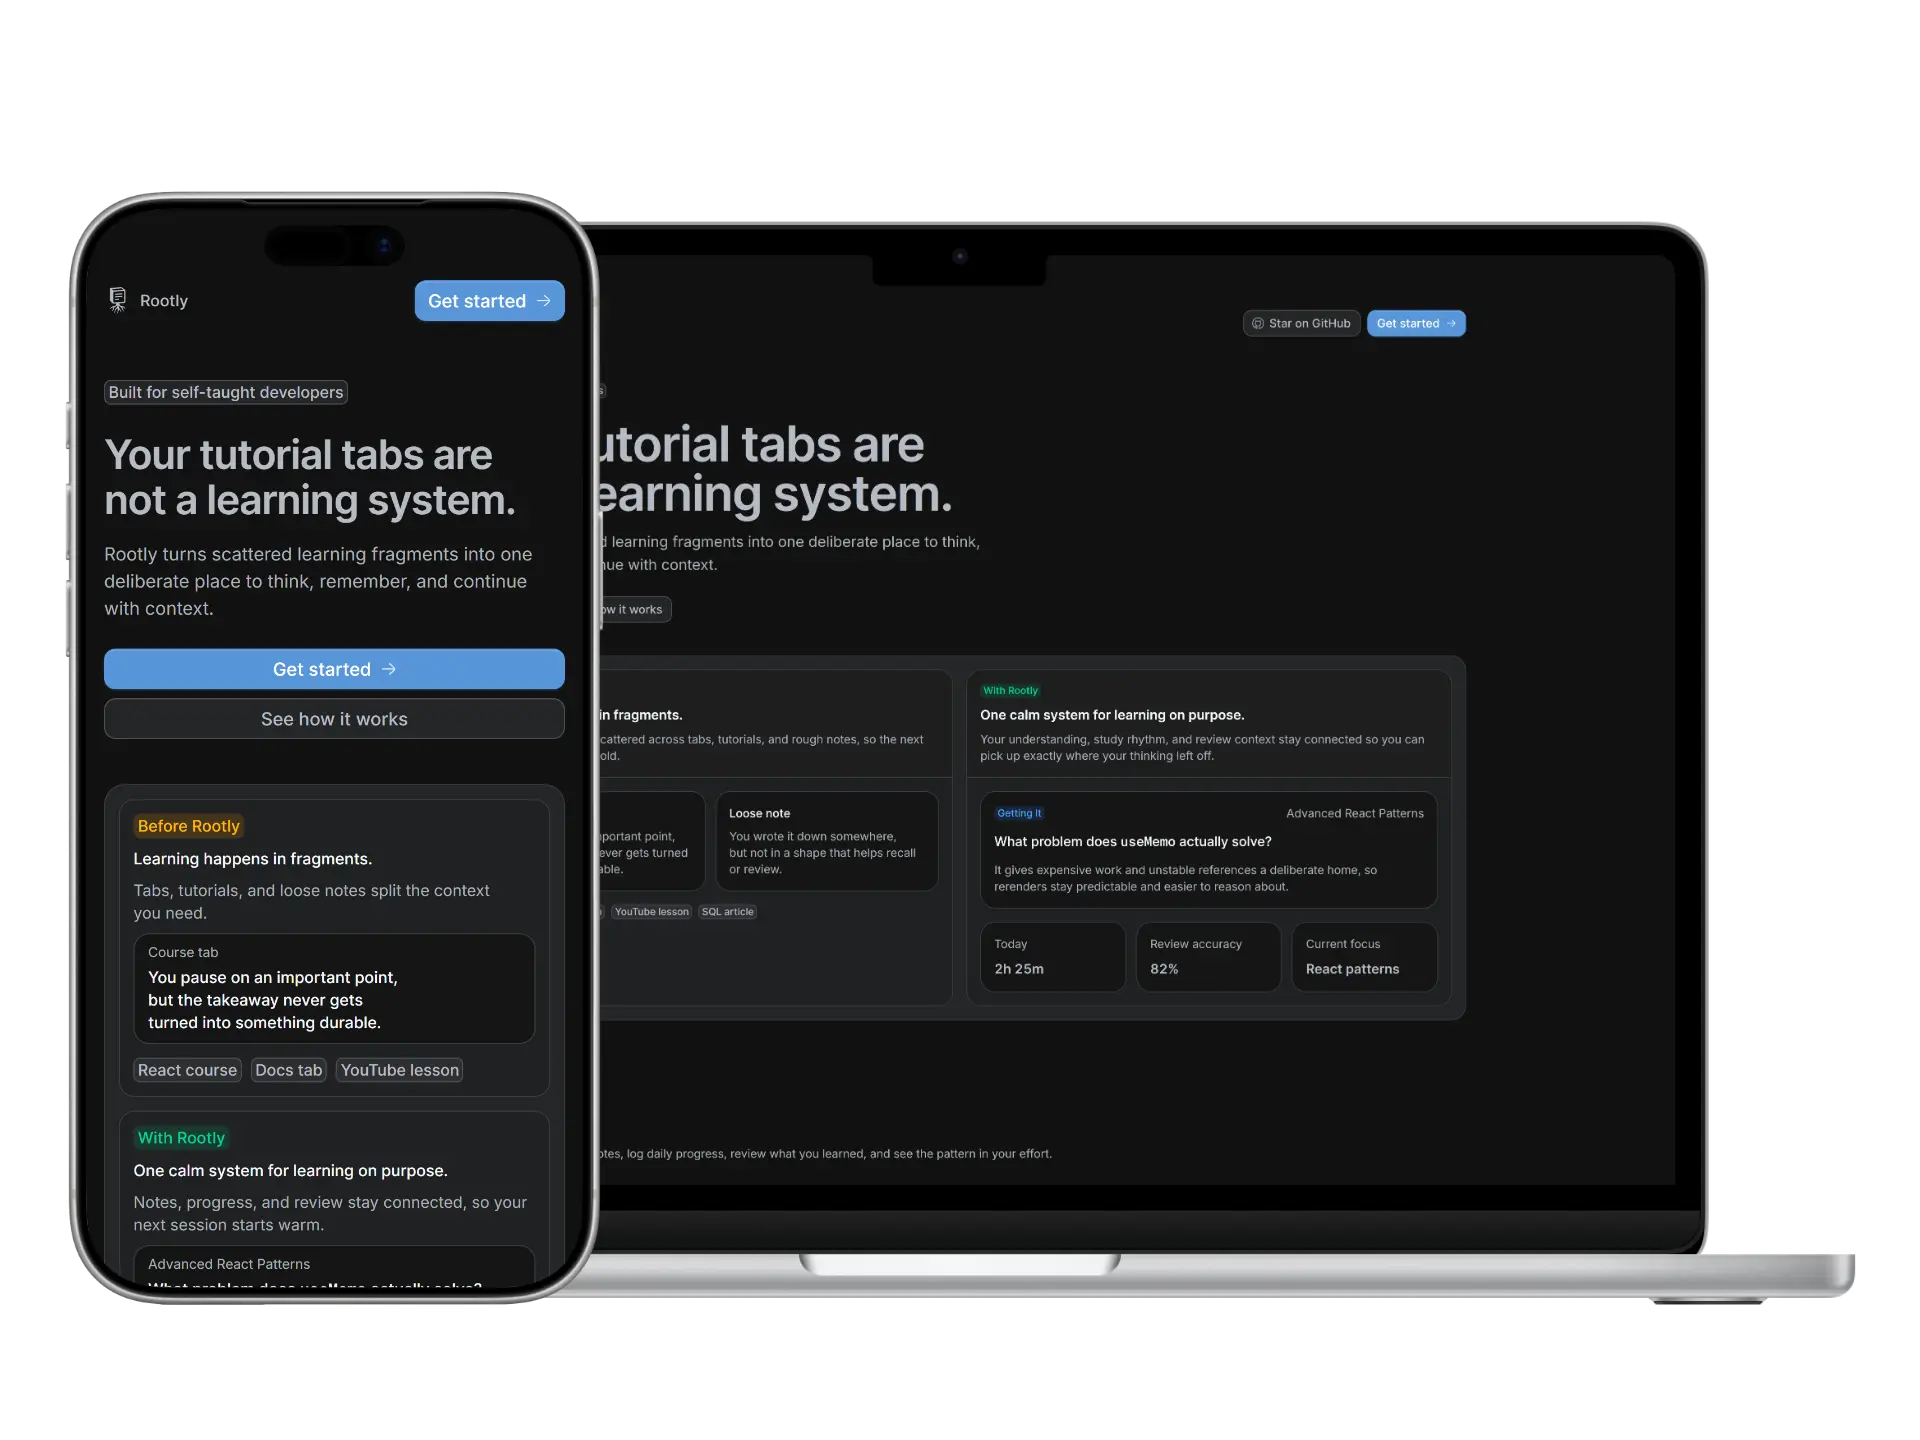
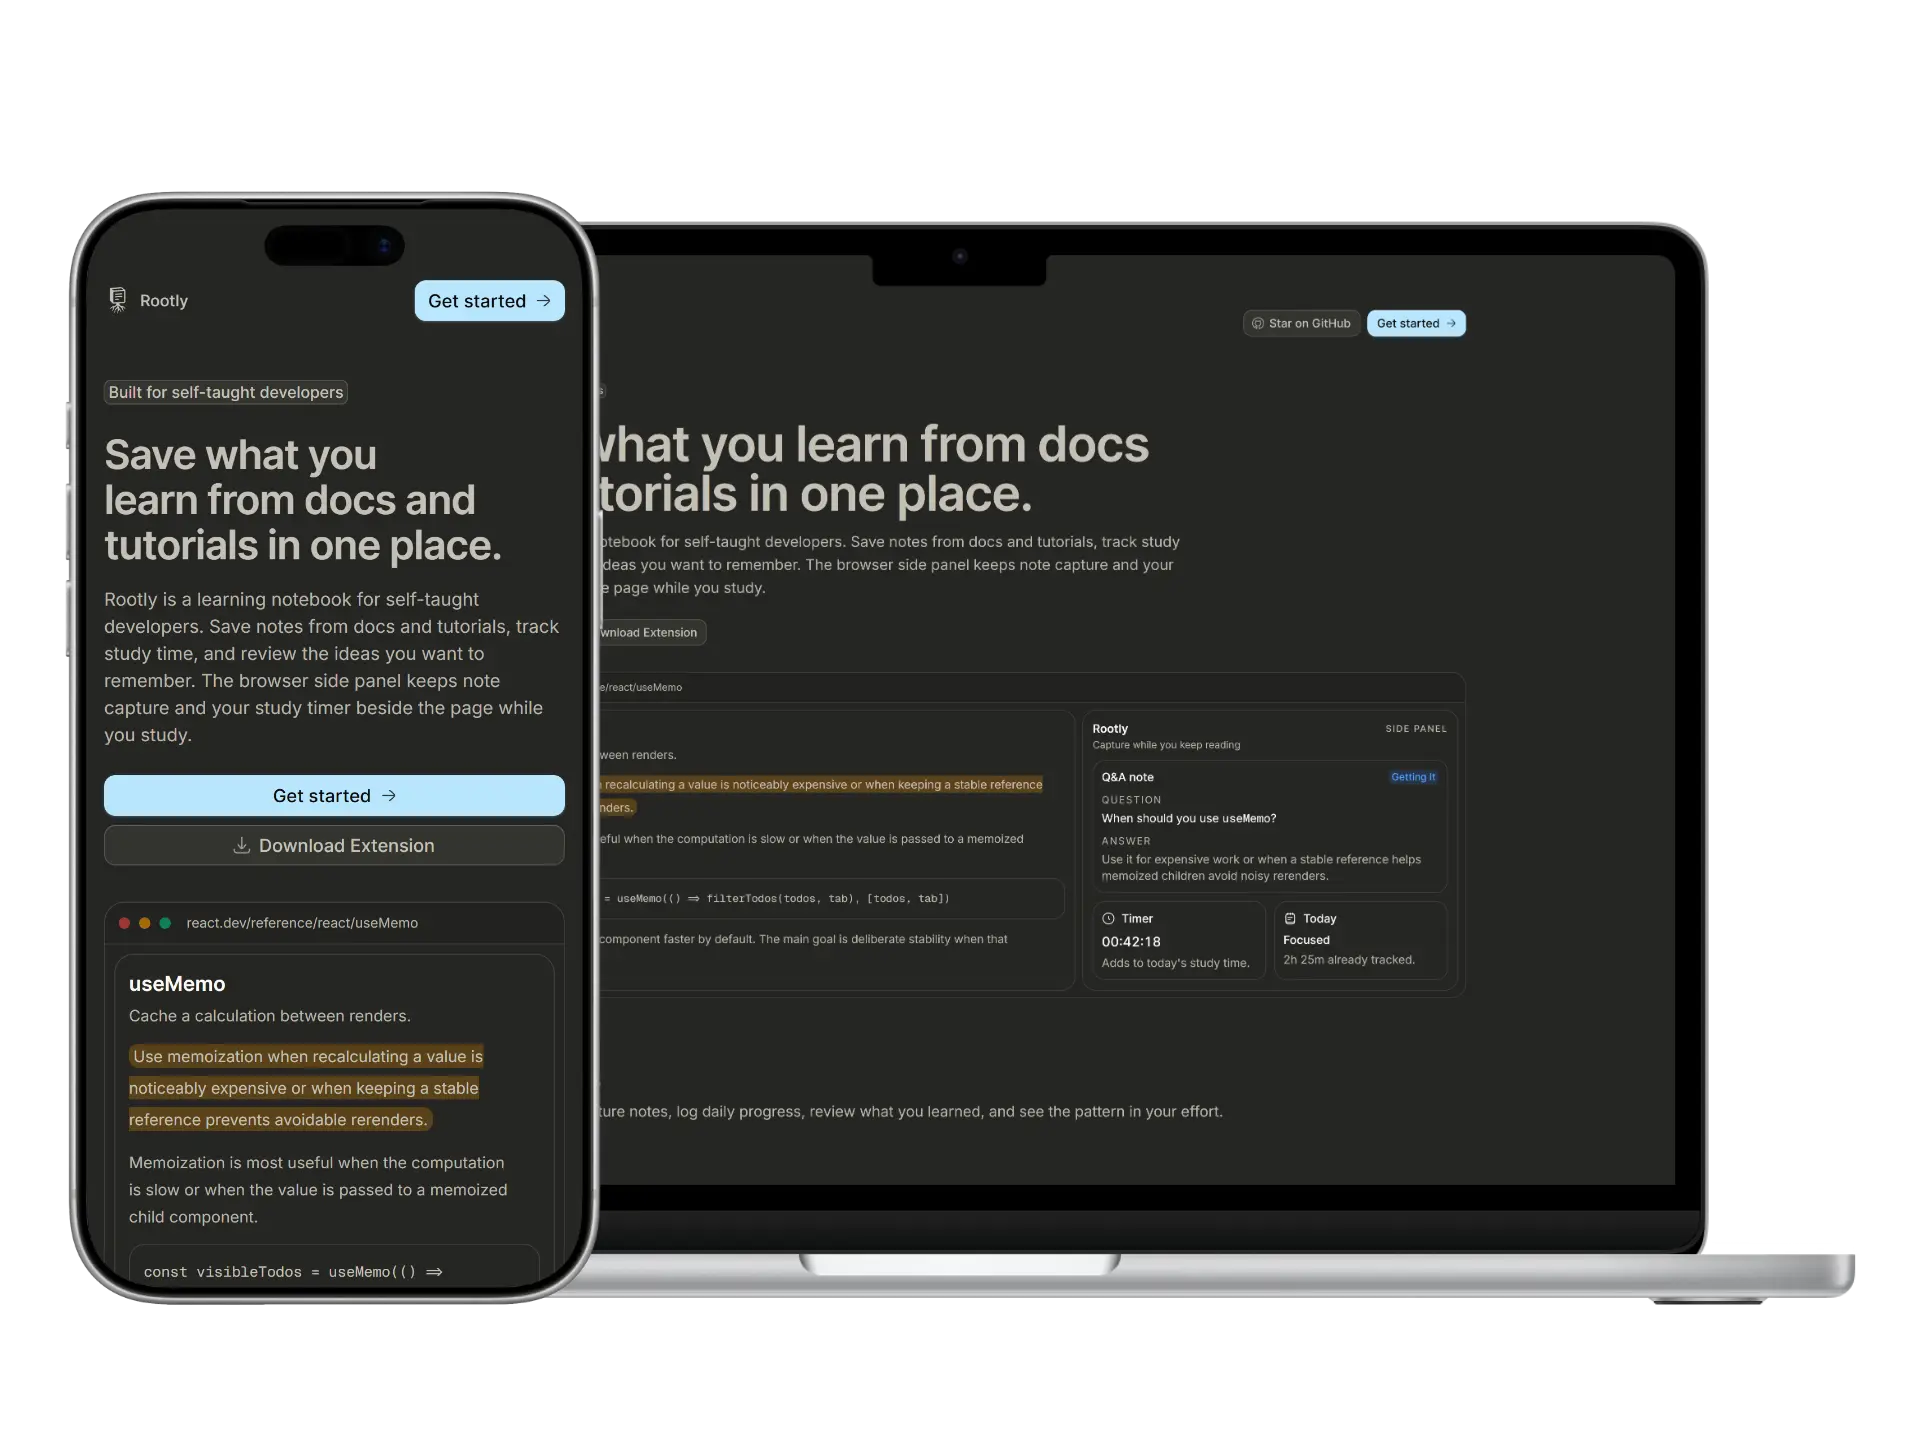
feat: update rootly description and image

diff --git a/components/home/disclosure-list.tsx b/components/home/disclosure-list.tsx
@@ -6,6 +6,11 @@ import { Accordion } from "@base-ui/react/accordion"
 import dynamic from "next/dynamic"
 
 import { DisclosureChevron } from "@/components/ui/disclosure-chevron"
+import {
+  PreviewCard,
+  PreviewCardContent,
+  PreviewCardTrigger,
+} from "@/components/ui/preview-card"
 import { TextLink } from "@/components/home/text-link"
 import { useHoverCapability } from "@/hooks/use-hover-capability"
 import type { Project } from "@/lib/content/site-content"
@@ -50,15 +55,21 @@ function getProjectStatusLabel(status: Project["status"]) {
 
 function formatCompactStack(architecture: Project["architecture"]) {
   if (architecture.length <= MAX_VISIBLE_STACK_ITEMS) {
-    return architecture.join(" · ")
+    return {
+      visible: architecture.join(" · "),
+      hidden: [] as string[],
+    }
   }
 
   const visibleStack = architecture
     .slice(0, MAX_VISIBLE_STACK_ITEMS)
     .join(" · ")
-  const hiddenCount = architecture.length - MAX_VISIBLE_STACK_ITEMS
+  const hiddenStack = architecture.slice(MAX_VISIBLE_STACK_ITEMS)
 
-  return `${visibleStack} +${hiddenCount} more`
+  return {
+    visible: visibleStack,
+    hidden: hiddenStack,
+  }
 }
 
 function ProjectDisclosureList({ items }: { items: Project[] }) {
@@ -77,6 +88,7 @@ function ProjectDisclosureList({ items }: { items: Project[] }) {
         const statusLabel = getProjectStatusLabel(item.status)
         const fullStack = item.architecture.join(", ")
         const compactStack = formatCompactStack(item.architecture)
+        const hiddenCount = compactStack.hidden.length
 
         return (
           <Accordion.Item
@@ -118,8 +130,17 @@ function ProjectDisclosureList({ items }: { items: Project[] }) {
             <Accordion.Panel className={DISCLOSURE_PANEL_CLASS}>
               <div className={DISCLOSURE_CONTENT_CLASS}>
                 <p>{item.details}</p>
-                <p className="truncate text-sm leading-6" title={fullStack}>
-                  Stack: {compactStack}
+                <p className="truncate text-sm leading-6">
+                  Stack: {compactStack.visible}
+                  {hiddenCount > 0 ? (
+                    <>
+                      {" "}
+                      <StackMorePreview
+                        hiddenStack={compactStack.hidden}
+                        hiddenCount={hiddenCount}
+                      />
+                    </>
+                  ) : null}
                 </p>
                 <div className="flex flex-wrap items-center gap-x-4 gap-y-2">
                   {item.href ? (
@@ -135,6 +156,34 @@ function ProjectDisclosureList({ items }: { items: Project[] }) {
         )
       })}
     </Accordion.Root>
+  )
+}
+
+function StackMorePreview({
+  hiddenStack,
+  hiddenCount,
+}: {
+  hiddenStack: string[]
+  hiddenCount: number
+}) {
+  return (
+    <PreviewCard>
+      <PreviewCardTrigger>
+        <button
+          type="button"
+          className="inline-flex items-center rounded-sm text-muted-foreground underline decoration-border underline-offset-4 transition-colors hover:text-foreground focus-visible:outline-none"
+          aria-label={`Show ${hiddenCount} more stack items: ${hiddenStack.join(", ")}`}
+        >
+          +{hiddenCount} more
+        </button>
+      </PreviewCardTrigger>
+      <PreviewCardContent side="top" sideOffset={10}>
+        <div className="max-w-[20rem] rounded-xl border border-border/70 bg-background px-3 py-2 text-sm leading-6 text-foreground shadow-xl">
+          <p className="font-medium text-foreground">Additional stack</p>
+          <p className="text-muted-foreground">{hiddenStack.join(" · ")}</p>
+        </div>
+      </PreviewCardContent>
+    </PreviewCard>
   )
 }
 

diff --git a/lib/content/site-content.ts b/lib/content/site-content.ts
@@ -164,18 +164,21 @@ export const projects: Project[] = [
     href: "https://rootlynotes.vercel.app/",
     repoHref: "https://github.com/mohamed-g-shoaib/rootly",
     summary:
-      "A developer-focused learning notebook built around structured notes, course organization, review sessions, and study analytics.",
+      "A cloud-first learning notebook for self-taught developers with structured notes, course tracking, daily study logs, and active-recall review.",
     details:
-      "Built as the next iteration of Rootly for self-taught developers who learn through courses, tutorials, and documentation. The product centers on Q&A notes, freeform notes, course progress, daily study tracking, and spaced-repetition review in one cloud-first system designed around how developers actually study.",
+      "Built as the active Rootly v2 application with a performance-focused dashboard architecture and extension-powered capture workflows. The product combines Q&A and freeform notes, topic-aware course tracking, daily study logs, and review sessions, then layers in query-backed instant navigation, cache-tagged server reads/mutations, extension-to-dashboard live updates, and a lightweight Web Audio interaction system for a faster, more responsive study experience.",
     architecture: [
-      "Next.js 16 App Router (Turbopack)",
+      "Next.js 16 App Router (Turbopack, Cache Components)",
+      "React 19",
       "TypeScript",
       "Tailwind CSS 4",
       "coss ui + Base UI",
       "Hugeicons",
       "Supabase (Auth, PostgreSQL, RLS)",
+      "TanStack Query",
       "Recharts",
       "Motion",
+      "Browser extension side panel + authenticated bridge APIs",
       "Oxlint + Oxfmt",
     ],
     image: {